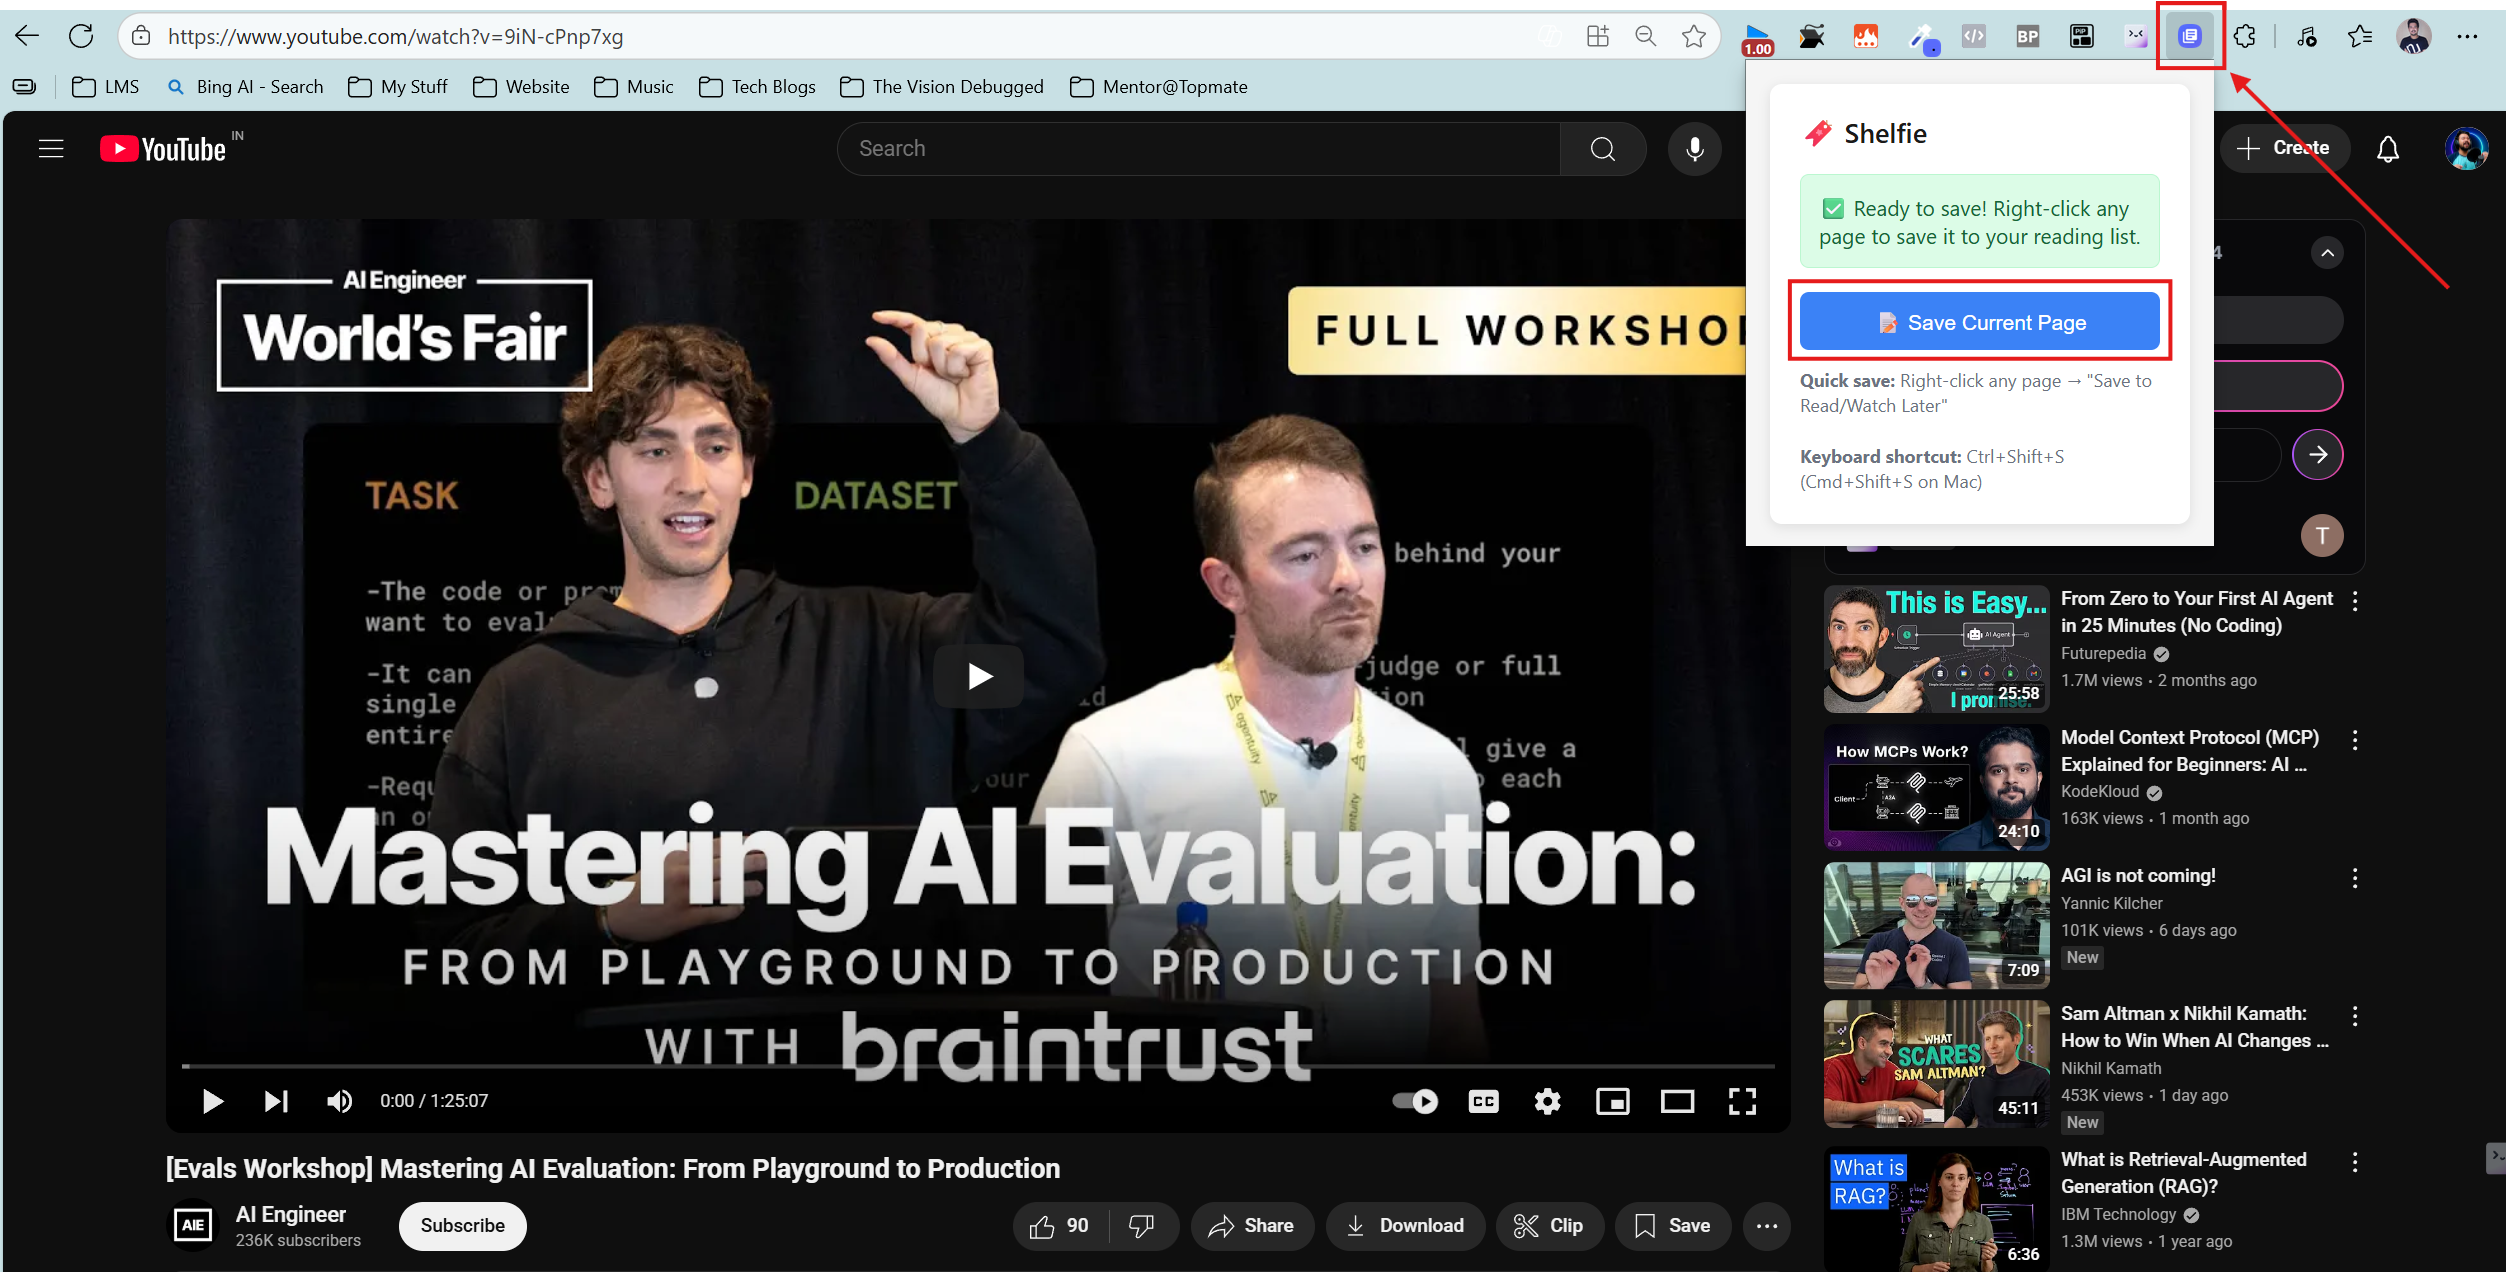
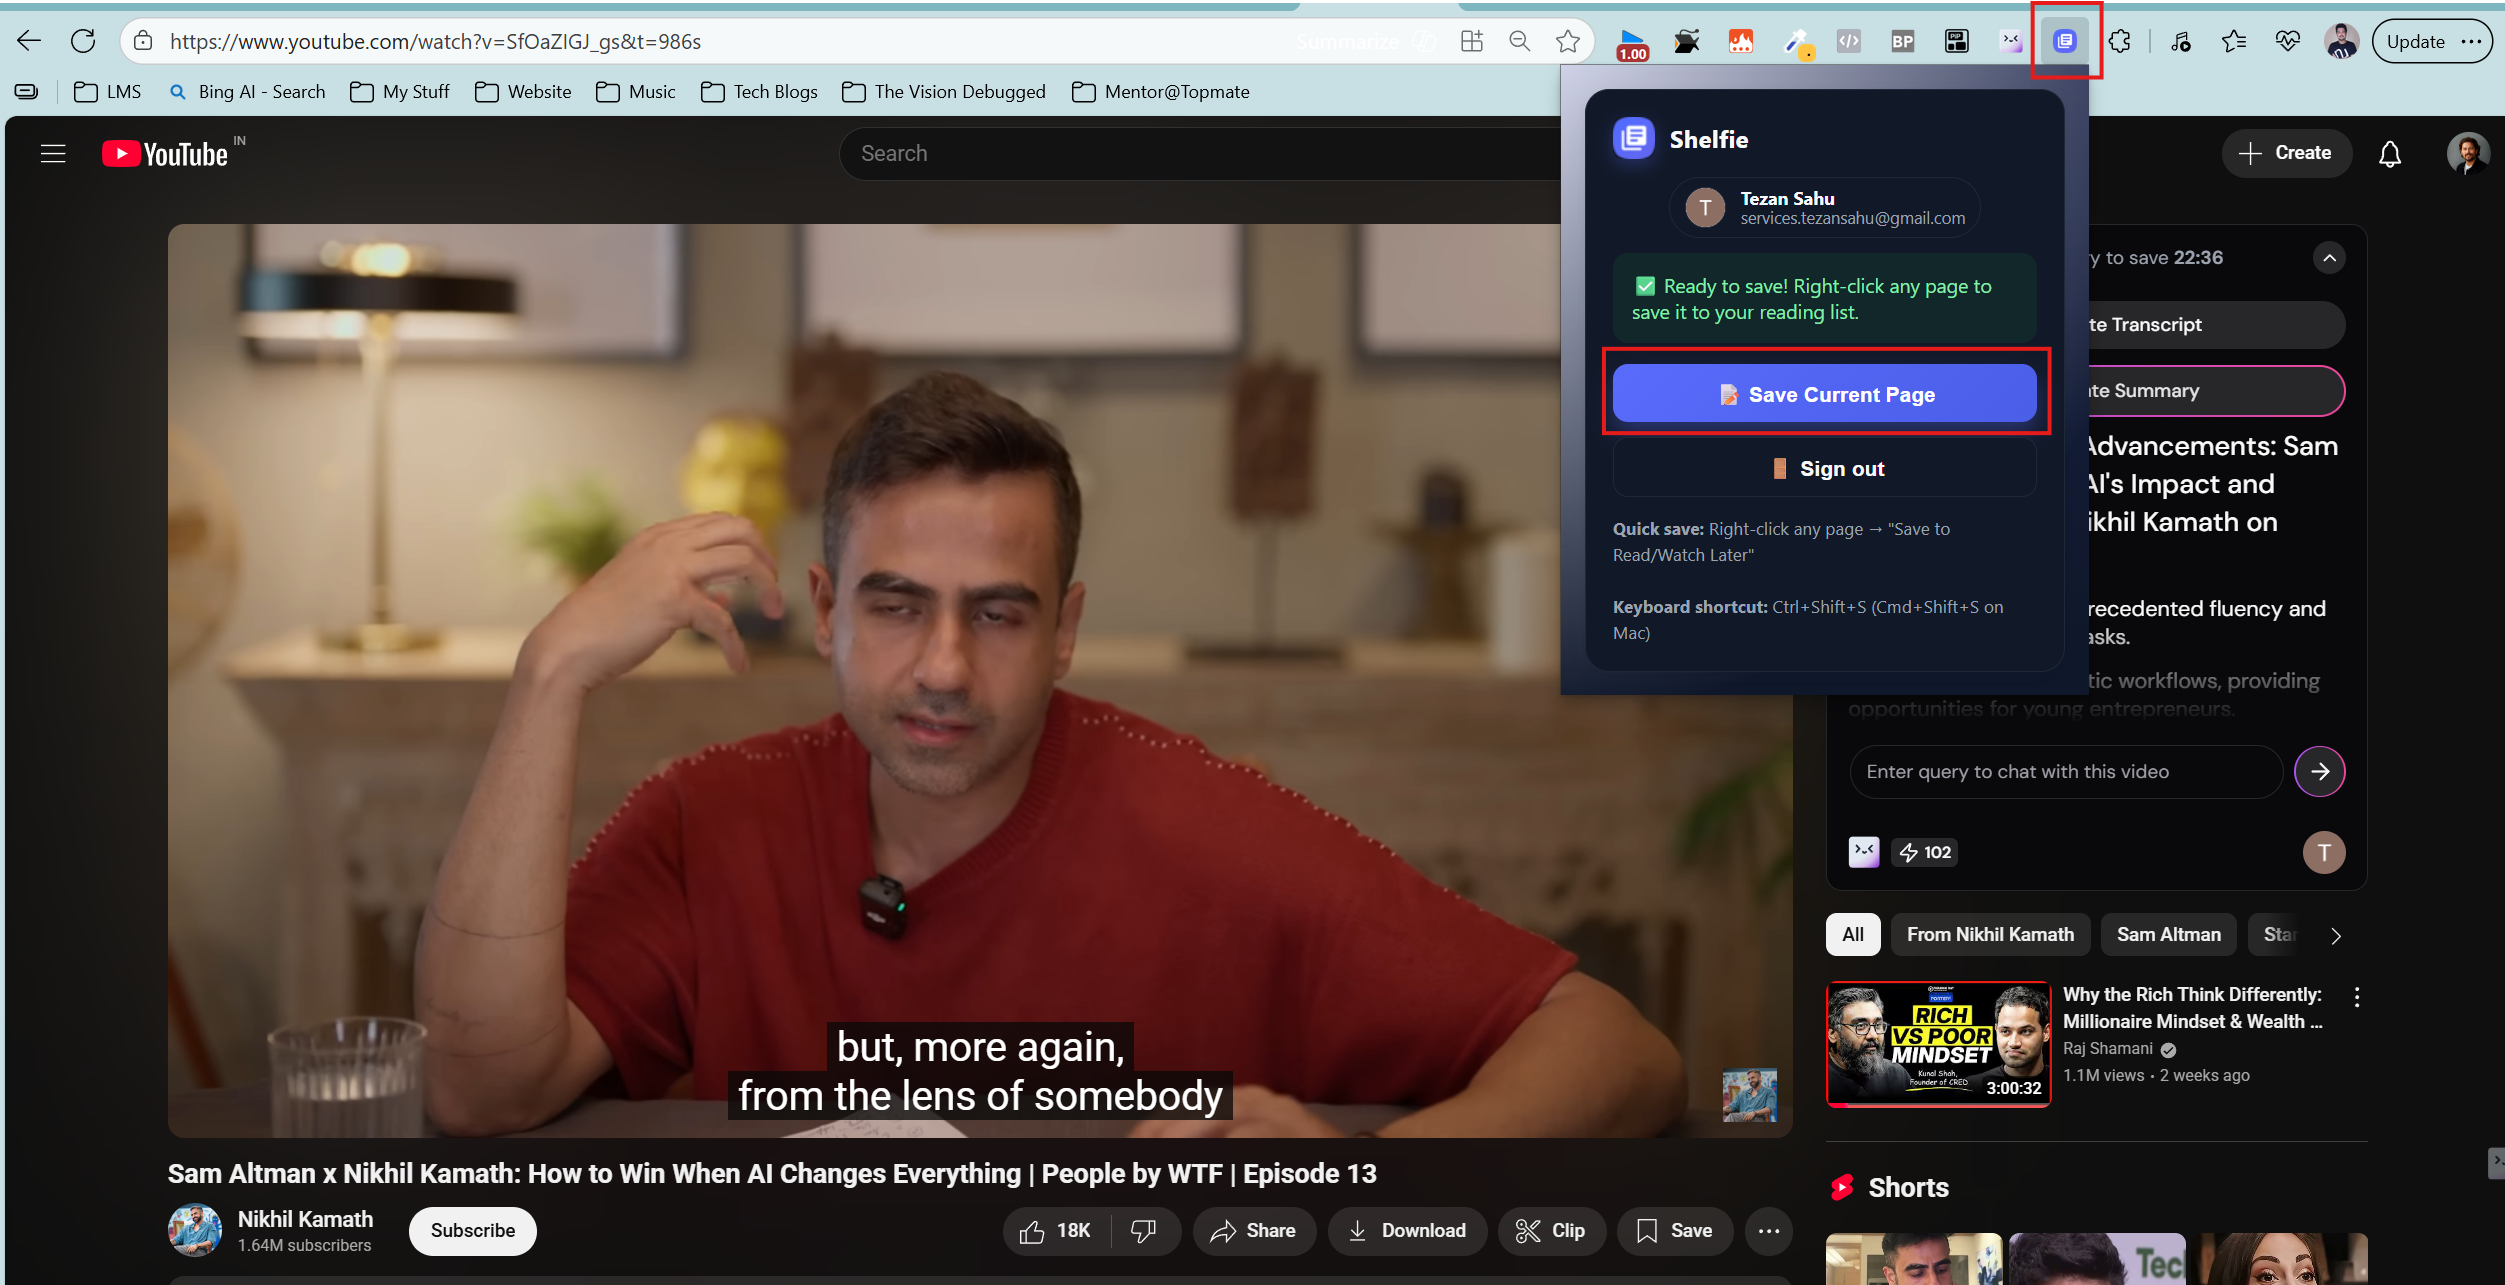
Update readme with auth related details

diff --git a/README.md b/README.md
@@ -31,6 +31,9 @@ A quick look at the browser extension and Flutter app UI to give a glimpse of th
 <table>
   <tr>
     <td align="center">
+      <img src="assets/app-screen-0.png" alt="App screen 0" width="260" />
+    </td>
+    <td align="center">
       <img src="assets/app-screen-1.png" alt="App screen 1" width="260" />
     </td>
     <td align="center">
@@ -47,6 +50,7 @@ A quick look at the browser extension and Flutter app UI to give a glimpse of th
 **Phase 3** (Analytics) ✅ Complete  
 **UI Modernization** ✅ Complete  
 **Mobile Optimization** ✅ Complete  
+**Google OAuth Integration** ✅ Complete  
 
 ## ✅ What's Included (All Phases Complete)
 
@@ -71,6 +75,7 @@ A quick look at the browser extension and Flutter app UI to give a glimpse of th
 
 ### 🌐 Browser Extension (Chrome/Edge)
 - Manifest V3 compatible with context menu integration
+- Sign in with Google account
 - Right-click "Save to Read/Watch Later" functionality
 - Configuration popup for Supabase credentials (streamlined interface)
 - Offline queue for failed saves with retry logic
@@ -109,6 +114,15 @@ A quick look at the browser extension and Flutter app UI to give a glimpse of th
   - **Optimized Cards:** Equal-weight action buttons with shortened text
   - **Analytics Mobile:** Responsive metric grids and chart sizing for mobile viewing
   - **Cross-Platform:** Consistent experience across Windows desktop and Android
+
+- **Google OAuth Integration:**
+  - Uses a Google Web Client ID via `AppConfig.googleWebClientId` (see `lib/config/app_config.dart`).
+  - Signs in with Google, then exchanges tokens with Supabase Auth to obtain a Supabase session (JWT + refresh token).
+  - Session is managed by Supabase (auto-refresh enabled) and used for all DB/Edge Function calls.
+  - RLS enforced automatically: requests run as the authenticated user (`auth.uid()`), isolating user data.
+  - Sign-in/out handled by `AuthService` with a simple one-tap flow and clear error states.
+  - Consistent auth across app and extension: the same Supabase project and Google Web client are used.
+
 
 ## 🚀 Getting Started
 
@@ -184,7 +198,9 @@ A quick look at the browser extension and Flutter app UI to give a glimpse of th
 1. Open Chrome/Edge and go to Extensions page
 2. Enable "Developer mode"
 3. Click "Load unpacked" and select the `browser-extension` folder
-4. Click the extension icon and configure your Supabase URL and API key
+4. Click the extension icon and sign in with Google in the popup (no API key entry needed)
+
+> Note: The extension reads your Supabase URL and anon key from `browser-extension/config.js` during development.
 
 ### 3. Setup Flutter App
 
@@ -407,3 +423,41 @@ The system is now production-ready with:
 ---
 
 *Shelfie: Your personal reading and watching companion, designed for the modern knowledge worker.* 🎯
+
+---
+
+## 🔐 Google OAuth Integration
+
+Shelfie uses Google Sign‑In end to end, anchored by Supabase Auth.
+
+- Supabase is the identity provider broker. You configure a Google Web client in Supabase. Supabase handles the Google OAuth redirect and issues a Supabase session (JWT + refresh token).
+- Flutter app signs in with Google using the same Web client and exchanges the tokens with Supabase. The app then uses the Supabase session to call the database and Edge Functions with Row Level Security (RLS).
+- The Browser Extension uses a secure OAuth flow without publishing: it launches a web auth flow to Supabase’s Google provider and receives a Supabase session back. It stores the session (access + refresh token) locally and calls Edge Functions with Authorization: Bearer <Supabase JWT> so saving happens under the signed‑in user.
+
+### Setup summary
+1) Google Cloud Console → Credentials → Web client (used by both app and Supabase)
+  - Authorized redirect URI must include:
+    - `https://<YOUR_SUPABASE_PROJECT>.supabase.co/auth/v1/callback`
+
+2) Supabase Dashboard → Authentication → Providers → Google
+  - Paste the Web client’s Client ID and Secret.
+
+3) Supabase Dashboard → Authentication → URL Configuration → Redirect URLs
+  - Add the extension’s runtime redirect URL (Chrome intercepts this URL, no publishing required):
+    - `https://<your-extension-id>.chromiumapp.org/supabase`
+
+4) Extension configuration
+  - `browser-extension/config.js` must contain your Supabase URL and anon key for development.
+  - The extension opens Supabase’s authorize endpoint with `redirect_to` set to the runtime URL returned by `chrome.identity.getRedirectURL('supabase')`.
+  - On success, it stores the Supabase access token and refresh token.
+
+### Why the chromiumapp URL looks “dead” in a browser
+The `https://<id>.chromiumapp.org/*` URL is special; Chrome intercepts it for OAuth flows. Navigating to it directly will show DNS errors. This is expected. It only works within the `chrome.identity.launchWebAuthFlow` flow.
+
+### Common pitfalls & fixes
+- redirect_uri_mismatch from Google: Ensure Supabase’s Google provider uses the Web client, not a Chrome Extension client. The Web client must whitelist the Supabase callback URL exactly.
+- Extension sign‑in fails: Verify the Supabase Redirect URLs include the exact chromiumapp URL with the path you pass to `getRedirectURL`.
+- 401 calling Edge Functions: The extension must send `Authorization: Bearer <Supabase access token>` and `apikey: <anon key>`. If 401 persists, refresh the token using the stored refresh token via Supabase’s `/auth/v1/token?grant_type=refresh_token`.
+
+### Security and RLS
+All database access is protected by RLS with policies bound to `auth.uid()`. Edge Functions receive the user’s Supabase JWT via the Authorization header and call the database with that context. This guarantees items are stored and read only for the authenticated user.
